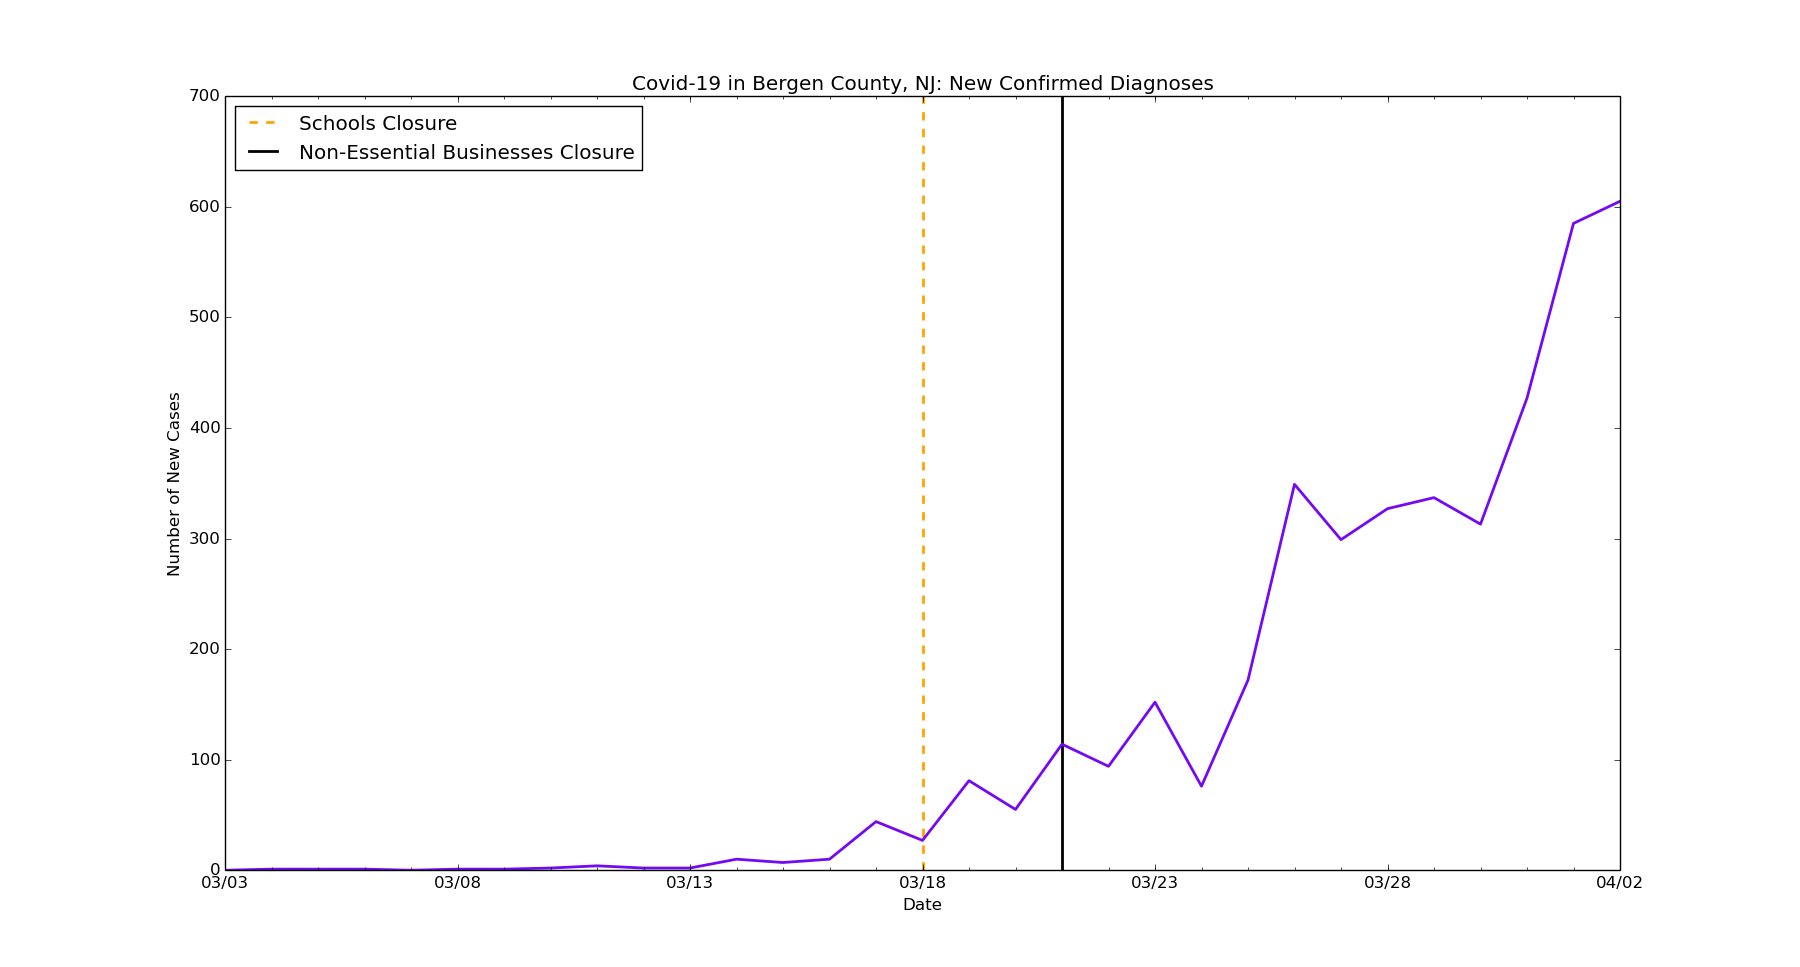
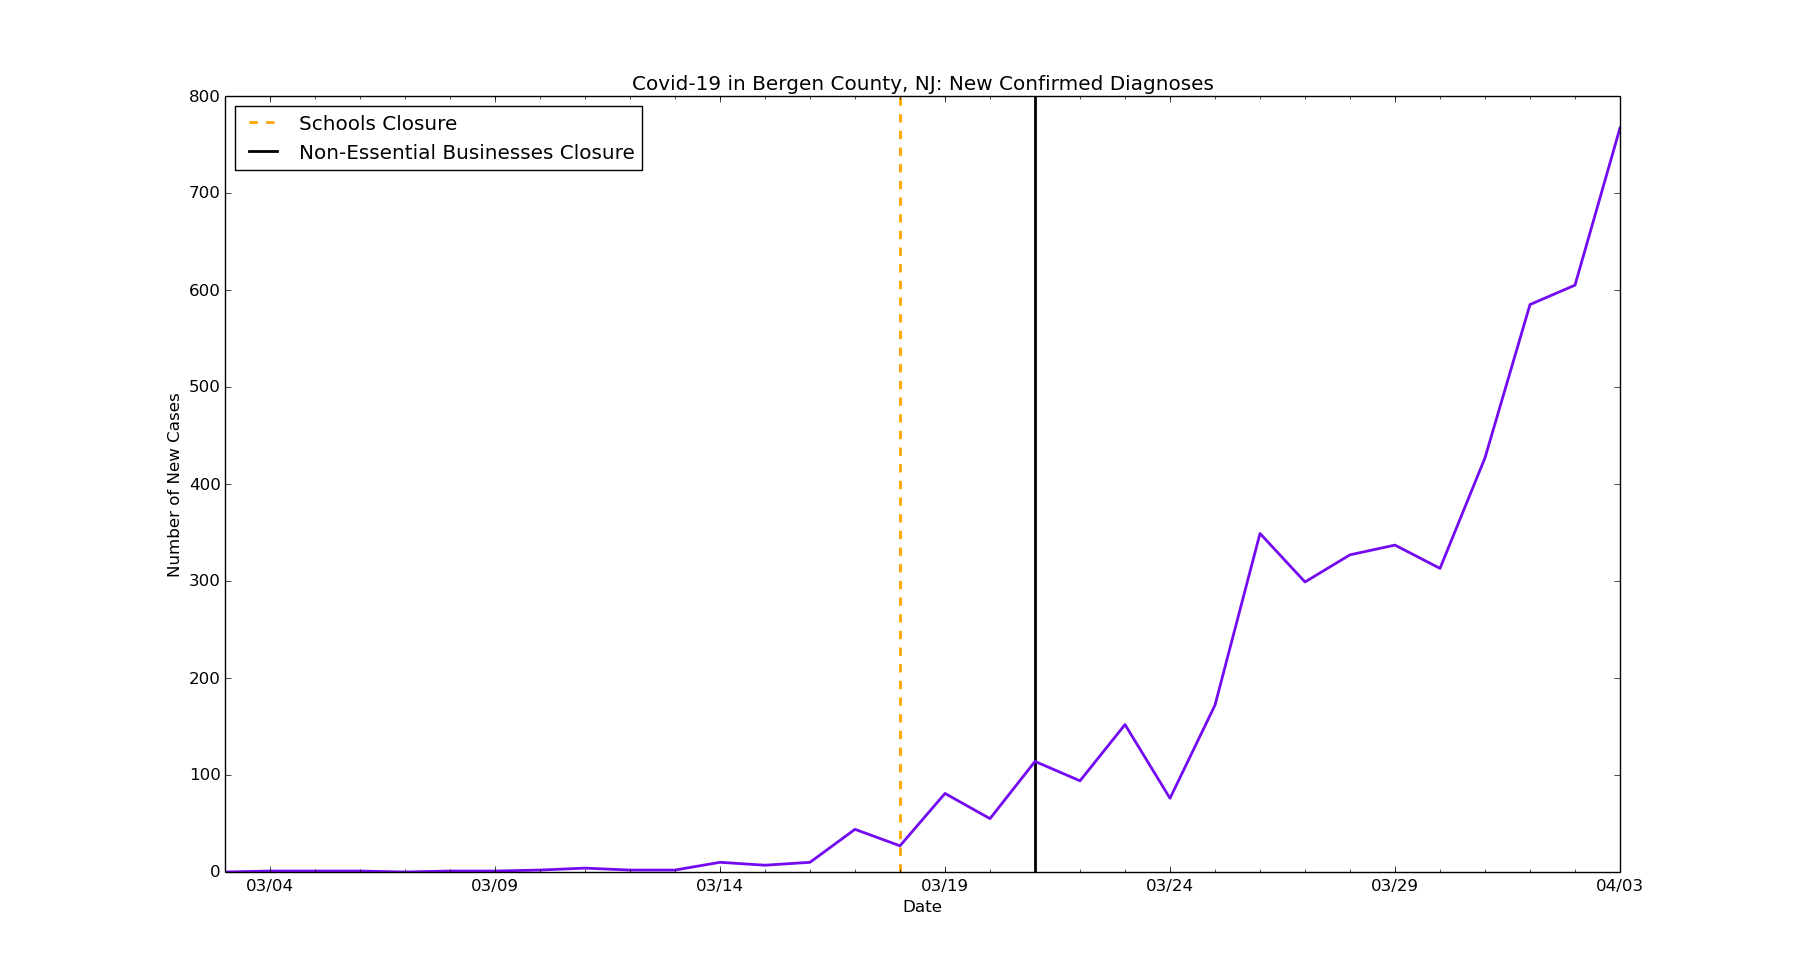
chore: Update data for Bergen County

diff --git a/bergen-county/bergen-new-cases.py b/bergen-county/bergen-new-cases.py
@@ -6,7 +6,7 @@ import matplotlib.dates as mdates
 import matplotlib.ticker as ticker
 from matplotlib.dates import MO, TU, WE, TH, FR, SA, SU
 
-dates = ['3/3/2020', '3/4/2020', '3/5/2020', '3/6/2020', '3/7/2020', '3/8/2020', '3/9/2020', '3/10/2020', '3/11/2020', '3/12/2020', '3/13/2020', '3/14/2020', '3/15/2020', '3/16/2020', '3/17/2020', '3/18/2020', '3/19/2020', '3/20/2020', '3/21/2020', '3/22/2020', '3/23/2020', '3/24/2020', '3/25/2020', '3/26/2020', '3/27/2020', '3/28/2020', '3/29/2020', '3/30/2020', '3/31/2020', '4/1/2020', '4/2/2020']
+dates = ['3/3/2020', '3/4/2020', '3/5/2020', '3/6/2020', '3/7/2020', '3/8/2020', '3/9/2020', '3/10/2020', '3/11/2020', '3/12/2020', '3/13/2020', '3/14/2020', '3/15/2020', '3/16/2020', '3/17/2020', '3/18/2020', '3/19/2020', '3/20/2020', '3/21/2020', '3/22/2020', '3/23/2020', '3/24/2020', '3/25/2020', '3/26/2020', '3/27/2020', '3/28/2020', '3/29/2020', '3/30/2020', '3/31/2020', '4/1/2020', '4/2/2020', '4/3/2020']
 
 # format dates
 x_values = [dt.datetime.strptime(d, "%m/%d/%Y").date() for d in dates]
@@ -29,7 +29,7 @@ plt.axvline(dt.datetime(2020, 3, 18), linestyle='--', color='orange', linewidth=
 plt.axvline(dt.datetime(2020, 3, 21), color='black', linewidth=2, label='stay at home')
 
 # new cases by day
-new_cases = [0, 1, 1, 1, 0, 1, 1, 2, 4, 2, 2, 10, 7, 10, 44, 27, 81, 55, 114, 94, 152, 76, 172, 349, 299, 327, 337, 313, 427, 585, 605]
+new_cases = [0, 1, 1, 1, 0, 1, 1, 2, 4, 2, 2, 10, 7, 10, 44, 27, 81, 55, 114, 94, 152, 76, 172, 349, 299, 327, 337, 313, 427, 585, 605, 767]
 
 # text labels
 plt.title('Covid-19 in Bergen County, NJ: New Confirmed Diagnoses')

diff --git a/bergen-county/bergen-deaths-new.py b/bergen-county/bergen-deaths-new.py
@@ -6,7 +6,7 @@ import matplotlib.dates as mdates
 import matplotlib.ticker as ticker
 from matplotlib.dates import MO, TU, WE, TH, FR, SA, SU
 
-dates = ['3/9/2020', '3/10/2020', '3/11/2020', '3/12/2020', '3/13/2020', '3/14/2020', '3/15/2020', '3/16/2020', '3/17/2020', '3/18/2020', '3/19/2020', '3/20/2020', '3/21/2020', '3/22/2020', '3/23/2020', '3/24/2020', '3/25/2020', '3/26/2020', '3/27/2020', '3/28/2020', '3/29/2020', '3/30/2020', '3/31/2020', '4/1/2020', '4/2/2020']
+dates = ['3/9/2020', '3/10/2020', '3/11/2020', '3/12/2020', '3/13/2020', '3/14/2020', '3/15/2020', '3/16/2020', '3/17/2020', '3/18/2020', '3/19/2020', '3/20/2020', '3/21/2020', '3/22/2020', '3/23/2020', '3/24/2020', '3/25/2020', '3/26/2020', '3/27/2020', '3/28/2020', '3/29/2020', '3/30/2020', '3/31/2020', '4/1/2020', '4/2/2020', '4/3/2020']
 
 # format dates
 x_values = [datetime.datetime.strptime(d, "%m/%d/%Y").date() for d in dates]
@@ -24,7 +24,7 @@ ax.xaxis.set_minor_locator(mdates.WeekdayLocator(byweekday=(MO, TU, WE, TH, FR, 
 ax.get_yaxis().set_major_formatter(ticker.FuncFormatter(lambda x, pos: format(int(x), ',')))
 
 # new deaths by day
-new_deaths = [0, 1, 0, 0, 0, 0, 1, 0, 0, 0, 1, 1, 2, 1, 0, 4, 4, 3, 7, 6, 10, 0, 13, 21, 45]
+new_deaths = [0, 1, 0, 0, 0, 0, 1, 0, 0, 0, 1, 1, 2, 1, 0, 4, 4, 3, 7, 6, 10, 0, 13, 21, 45, 12]
 
 # text labels
 plt.title('Covid-19 in Bergen County, NJ: New Fatalities')
